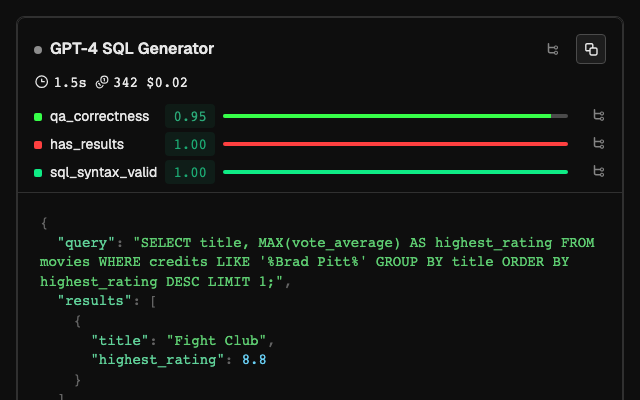
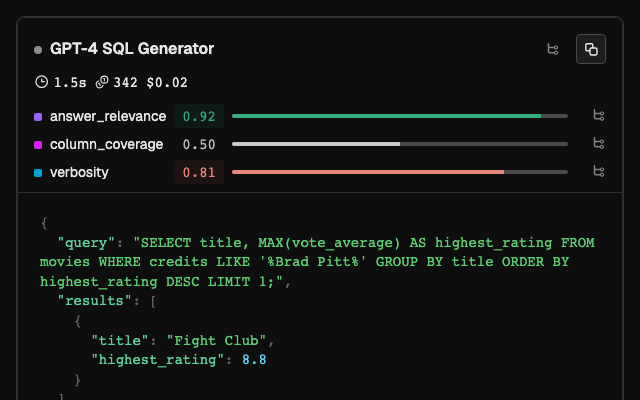
test(storybook): spread experiment scores across each config's range

Changed region(s): [[0.0312, 0.27, 0.875, 0.39], [0.0312, 0.42, 0.9062, 0.45]]

diff --git a/js/app/stories/domains/experiments/RunOutputs.stories.tsx b/js/app/stories/domains/experiments/RunOutputs.stories.tsx
@@ -93,7 +93,7 @@ const mockExperimentRepetitions: Record<string, ExperimentRepetition[]> = {
             {
               annotation: {
                 id: "ann-1",
-                name: "qa_correctness",
+                name: "answer_relevance",
                 label: "correct",
                 score: 0.95,
                 metadata: null,
@@ -105,10 +105,23 @@ const mockExperimentRepetitions: Record<string, ExperimentRepetition[]> = {
             },
             {
               annotation: {
-                id: "ann-2",
-                name: "has_results",
+                id: "ann-2-coverage",
+                name: "column_coverage",
                 label: null,
-                score: 1.0,
+                score: 0.5,
+                metadata: null,
+                trace: {
+                  traceId: "eval-trace-exp1-2-coverage",
+                  projectId: "project-456",
+                },
+              },
+            },
+            {
+              annotation: {
+                id: "ann-2",
+                name: "verbosity",
+                label: null,
+                score: 0.86,
                 metadata: null,
                 trace: {
                   traceId: "eval-trace-exp1-2",
@@ -151,9 +164,9 @@ const mockExperimentRepetitions: Record<string, ExperimentRepetition[]> = {
             {
               annotation: {
                 id: "ann-3",
-                name: "qa_correctness",
+                name: "answer_relevance",
                 label: null,
-                score: 0.87,
+                score: 0.62,
                 metadata: null,
                 trace: {
                   traceId: "eval-trace-exp2-1",
@@ -163,10 +176,23 @@ const mockExperimentRepetitions: Record<string, ExperimentRepetition[]> = {
             },
             {
               annotation: {
-                id: "ann-4",
-                name: "has_results",
+                id: "ann-4-coverage",
+                name: "column_coverage",
                 label: null,
-                score: 1.0,
+                score: 0.74,
+                metadata: null,
+                trace: {
+                  traceId: "eval-trace-exp2-2-coverage",
+                  projectId: "project-789",
+                },
+              },
+            },
+            {
+              annotation: {
+                id: "ann-4",
+                name: "verbosity",
+                label: null,
+                score: 0.5,
                 metadata: null,
                 trace: {
                   traceId: "eval-trace-exp2-2",
@@ -209,9 +235,9 @@ const mockExperimentRepetitions: Record<string, ExperimentRepetition[]> = {
             {
               annotation: {
                 id: "ann-5",
-                name: "qa_correctness",
+                name: "answer_relevance",
                 label: null,
-                score: 0.65,
+                score: 0.18,
                 metadata: null,
                 trace: {
                   traceId: "eval-trace-exp3-1",
@@ -221,10 +247,23 @@ const mockExperimentRepetitions: Record<string, ExperimentRepetition[]> = {
             },
             {
               annotation: {
-                id: "ann-6",
-                name: "has_results",
+                id: "ann-6-coverage",
+                name: "column_coverage",
                 label: null,
-                score: 0.0,
+                score: 0.5,
+                metadata: null,
+                trace: {
+                  traceId: "eval-trace-exp3-2-coverage",
+                  projectId: "project-123",
+                },
+              },
+            },
+            {
+              annotation: {
+                id: "ann-6",
+                name: "verbosity",
+                label: null,
+                score: 0.12,
                 metadata: null,
                 trace: {
                   traceId: "eval-trace-exp3-2",
@@ -265,9 +304,9 @@ const mockExperimentRepetitions: Record<string, ExperimentRepetition[]> = {
             {
               annotation: {
                 id: "ann-7",
-                name: "qa_correctness",
+                name: "answer_relevance",
                 label: null,
-                score: 0.78,
+                score: 0.41,
                 metadata: null,
                 trace: {
                   traceId: "eval-trace-exp3-3",
@@ -277,10 +316,23 @@ const mockExperimentRepetitions: Record<string, ExperimentRepetition[]> = {
             },
             {
               annotation: {
-                id: "ann-8",
-                name: "has_results",
+                id: "ann-8-coverage",
+                name: "column_coverage",
                 label: null,
-                score: 1.0,
+                score: 0.33,
+                metadata: null,
+                trace: {
+                  traceId: "eval-trace-exp3-4-coverage",
+                  projectId: "project-123",
+                },
+              },
+            },
+            {
+              annotation: {
+                id: "ann-8",
+                name: "verbosity",
+                label: null,
+                score: 0.5,
                 metadata: null,
                 trace: {
                   traceId: "eval-trace-exp3-4",
@@ -329,12 +381,17 @@ const mockExperimentRepetitions: Record<string, ExperimentRepetition[]> = {
 
 const mockAnnotationSummaries: AnnotationSummaries = [
   {
-    annotationName: "qa_correctness",
+    annotationName: "answer_relevance",
     minScore: 0.0,
     maxScore: 1.0,
   },
   {
-    annotationName: "has_results",
+    annotationName: "column_coverage",
+    minScore: 0.0,
+    maxScore: 1.0,
+  },
+  {
+    annotationName: "verbosity",
     minScore: 0.0,
     maxScore: 1.0,
   },

diff --git a/js/app/stories/domains/experiments/ExperimentItem.stories.tsx b/js/app/stories/domains/experiments/ExperimentItem.stories.tsx
@@ -73,9 +73,9 @@ const mockExperimentRepetition: ExperimentRepetition = {
         {
           annotation: {
             id: "ann-1",
-            name: "qa_correctness",
-            label: "correct",
-            score: 0.95,
+            name: "answer_relevance",
+            label: null,
+            score: 0.92,
             metadata: null,
             trace: {
               traceId: "eval-trace-111",
@@ -86,9 +86,9 @@ const mockExperimentRepetition: ExperimentRepetition = {
         {
           annotation: {
             id: "ann-2",
-            name: "has_results",
+            name: "column_coverage",
             label: null,
-            score: 1.0,
+            score: 0.5,
             metadata: null,
             trace: {
               traceId: "eval-trace-222",
@@ -99,9 +99,9 @@ const mockExperimentRepetition: ExperimentRepetition = {
         {
           annotation: {
             id: "ann-3",
-            name: "sql_syntax_valid",
-            label: "valid",
-            score: 1.0,
+            name: "verbosity",
+            label: null,
+            score: 0.81,
             metadata: null,
             trace: {
               traceId: "eval-trace-333",
@@ -169,7 +169,7 @@ const mockRepetitionExperimentRepetition: ExperimentRepetition = {
         {
           annotation: {
             id: "ann-4",
-            name: "qa_correctness",
+            name: "answer_relevance",
             label: null,
             score: 0.75,
             metadata: null,
@@ -186,17 +186,17 @@ const mockRepetitionExperimentRepetition: ExperimentRepetition = {
 
 const mockAnnotationSummaries: AnnotationSummaries = [
   {
-    annotationName: "qa_correctness",
+    annotationName: "answer_relevance",
     minScore: 0.0,
     maxScore: 1.0,
   },
   {
-    annotationName: "has_results",
+    annotationName: "column_coverage",
     minScore: 0.0,
     maxScore: 1.0,
   },
   {
-    annotationName: "sql_syntax_valid",
+    annotationName: "verbosity",
     minScore: 0.0,
     maxScore: 1.0,
   },

diff --git a/js/app/stories/domains/experiments/RunAnnotations.stories.tsx b/js/app/stories/domains/experiments/RunAnnotations.stories.tsx
@@ -49,9 +49,9 @@ const mockExperimentRunWithAnnotations: ExperimentRun = {
       {
         annotation: {
           id: "ann-1",
-          name: "qa_correctness",
-          label: "correct",
-          score: 0.95,
+          name: "answer_relevance",
+          label: null,
+          score: 0.92,
           metadata: null,
           trace: {
             traceId: "eval-trace-111",
@@ -62,9 +62,9 @@ const mockExperimentRunWithAnnotations: ExperimentRun = {
       {
         annotation: {
           id: "ann-2",
-          name: "has_results",
+          name: "column_coverage",
           label: null,
-          score: 1.0,
+          score: 0.5,
           metadata: null,
           trace: {
             traceId: "eval-trace-222",
@@ -75,9 +75,9 @@ const mockExperimentRunWithAnnotations: ExperimentRun = {
       {
         annotation: {
           id: "ann-3",
-          name: "sql_syntax_valid",
-          label: "valid",
-          score: 1.0,
+          name: "verbosity",
+          label: null,
+          score: 0.81,
           metadata: null,
           trace: {
             traceId: "eval-trace-333",
@@ -223,6 +223,11 @@ export const Default = {
 
   args: {
     experimentRun: mockExperimentRunWithAnnotations,
+    annotationSummaries: [
+      { annotationName: "answer_relevance", minScore: 0.0, maxScore: 1.0 },
+      { annotationName: "column_coverage", minScore: 0.0, maxScore: 1.0 },
+      { annotationName: "verbosity", minScore: 0.0, maxScore: 1.0 },
+    ],
   },
 };
 

diff --git a/js/app/stories/constants/experimentEvaluatorFixtures.ts b/js/app/stories/constants/experimentEvaluatorFixtures.ts
@@ -95,6 +95,42 @@ const experimentDatasetEvaluators: DatasetEvaluatorForConfig[] = [
       },
     ],
   },
+  {
+    name: "answer_relevance",
+    outputConfigs: [
+      {
+        __typename: "ContinuousAnnotationConfig",
+        name: "answer_relevance",
+        optimizationDirection: "MAXIMIZE",
+        lowerBound: 0,
+        upperBound: 1,
+      },
+    ],
+  },
+  {
+    name: "column_coverage",
+    outputConfigs: [
+      {
+        __typename: "ContinuousAnnotationConfig",
+        name: "column_coverage",
+        optimizationDirection: "MAXIMIZE",
+        lowerBound: 0,
+        upperBound: 1,
+      },
+    ],
+  },
+  {
+    name: "verbosity",
+    outputConfigs: [
+      {
+        __typename: "ContinuousAnnotationConfig",
+        name: "verbosity",
+        optimizationDirection: "MINIMIZE",
+        lowerBound: 0,
+        upperBound: 1,
+      },
+    ],
+  },
 ];
 
 export const experimentAnnotationConfigs = datasetEvaluatorsToAnnotationConfigs(
